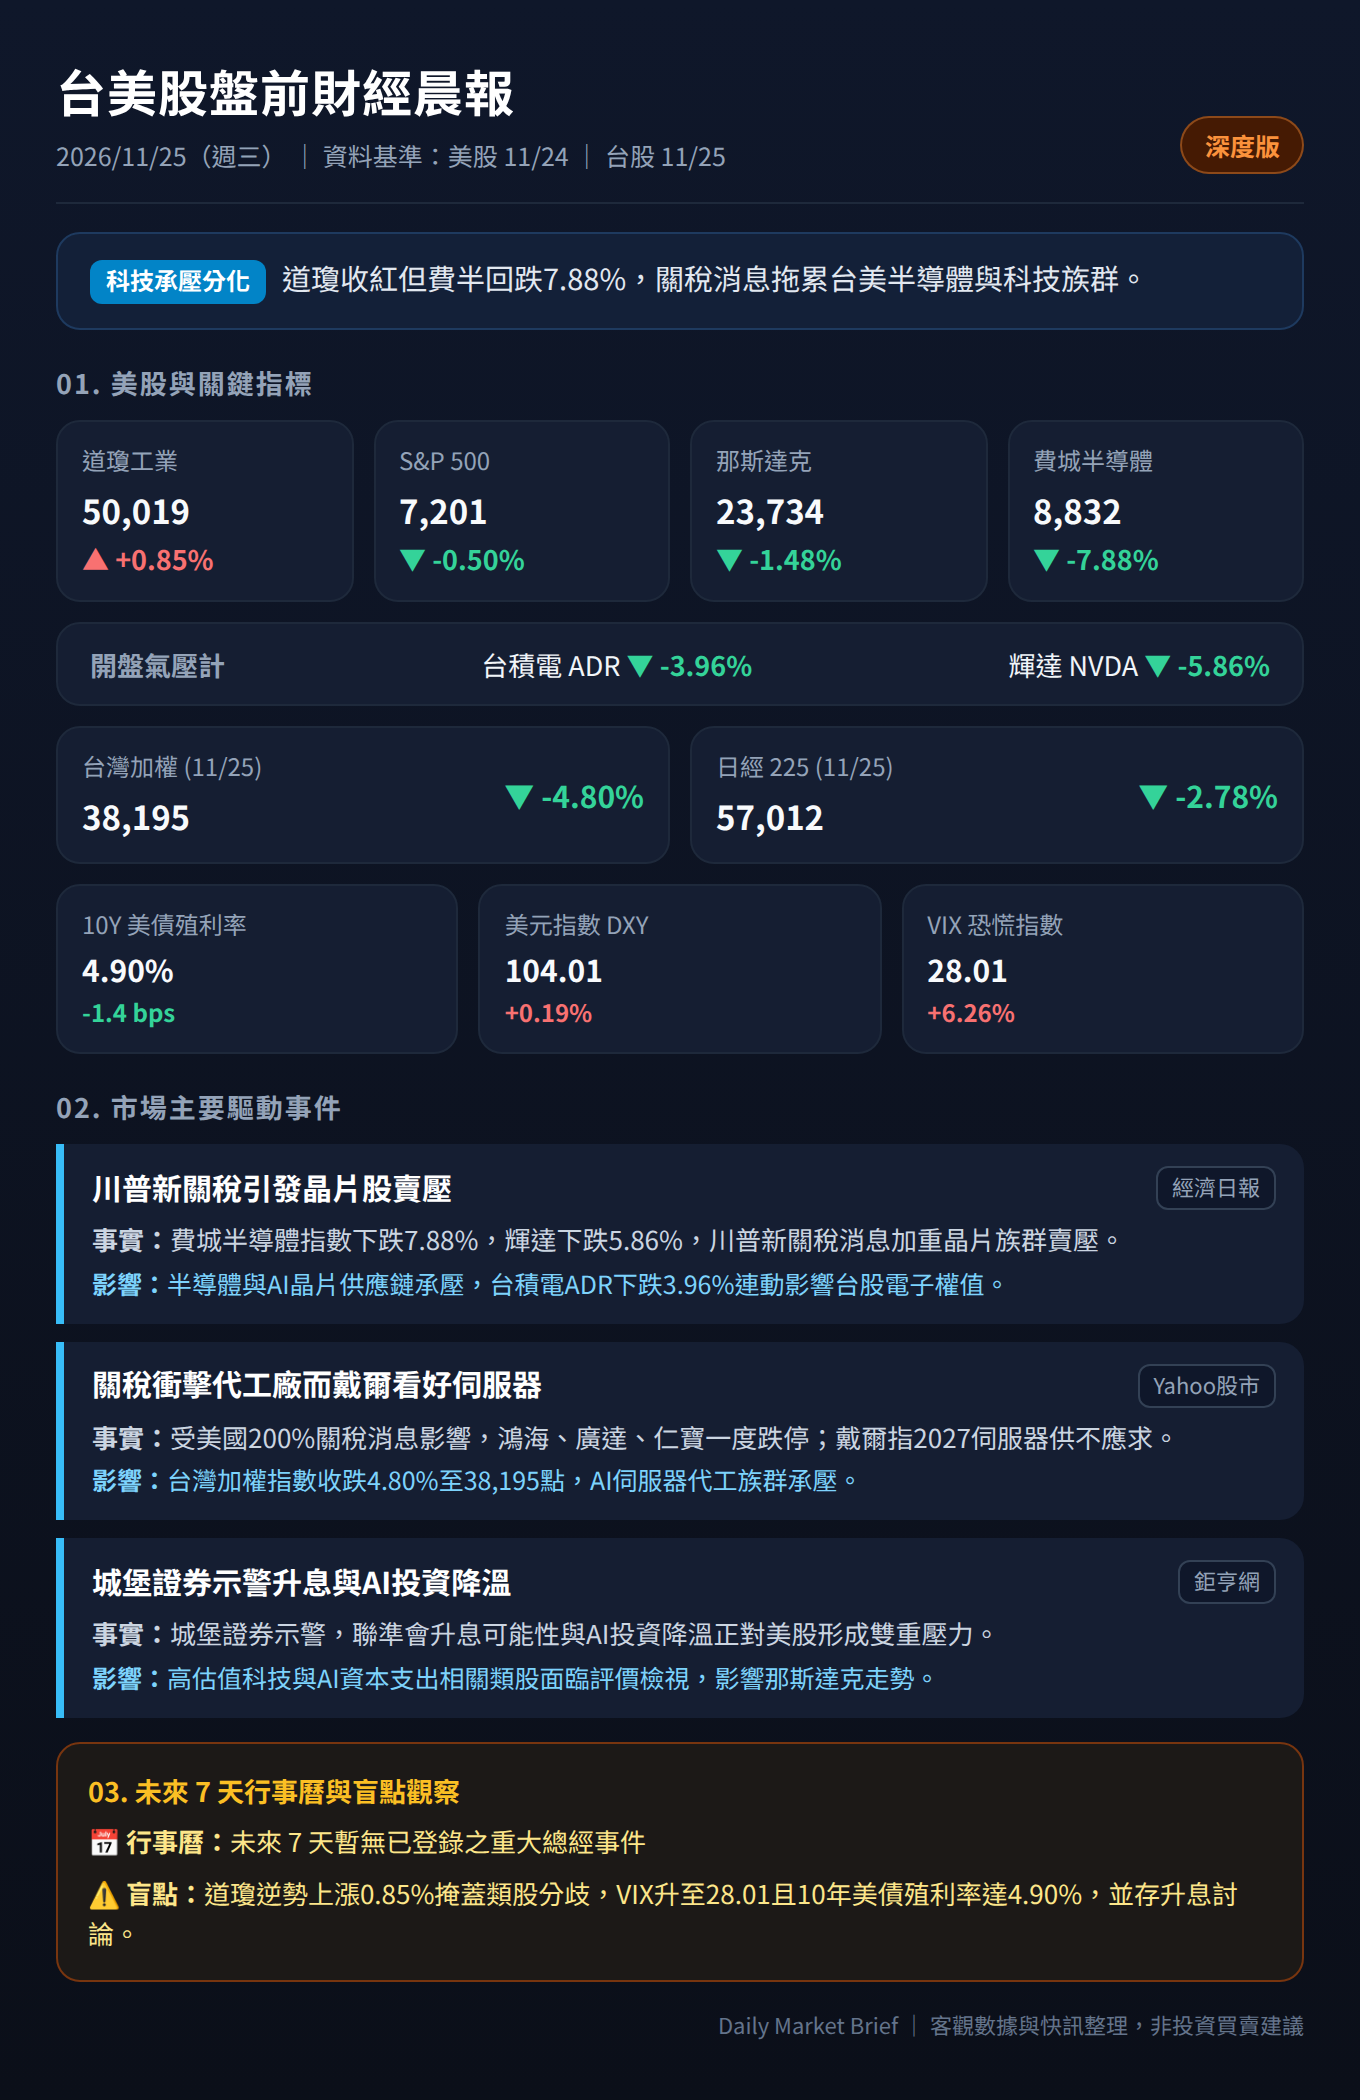
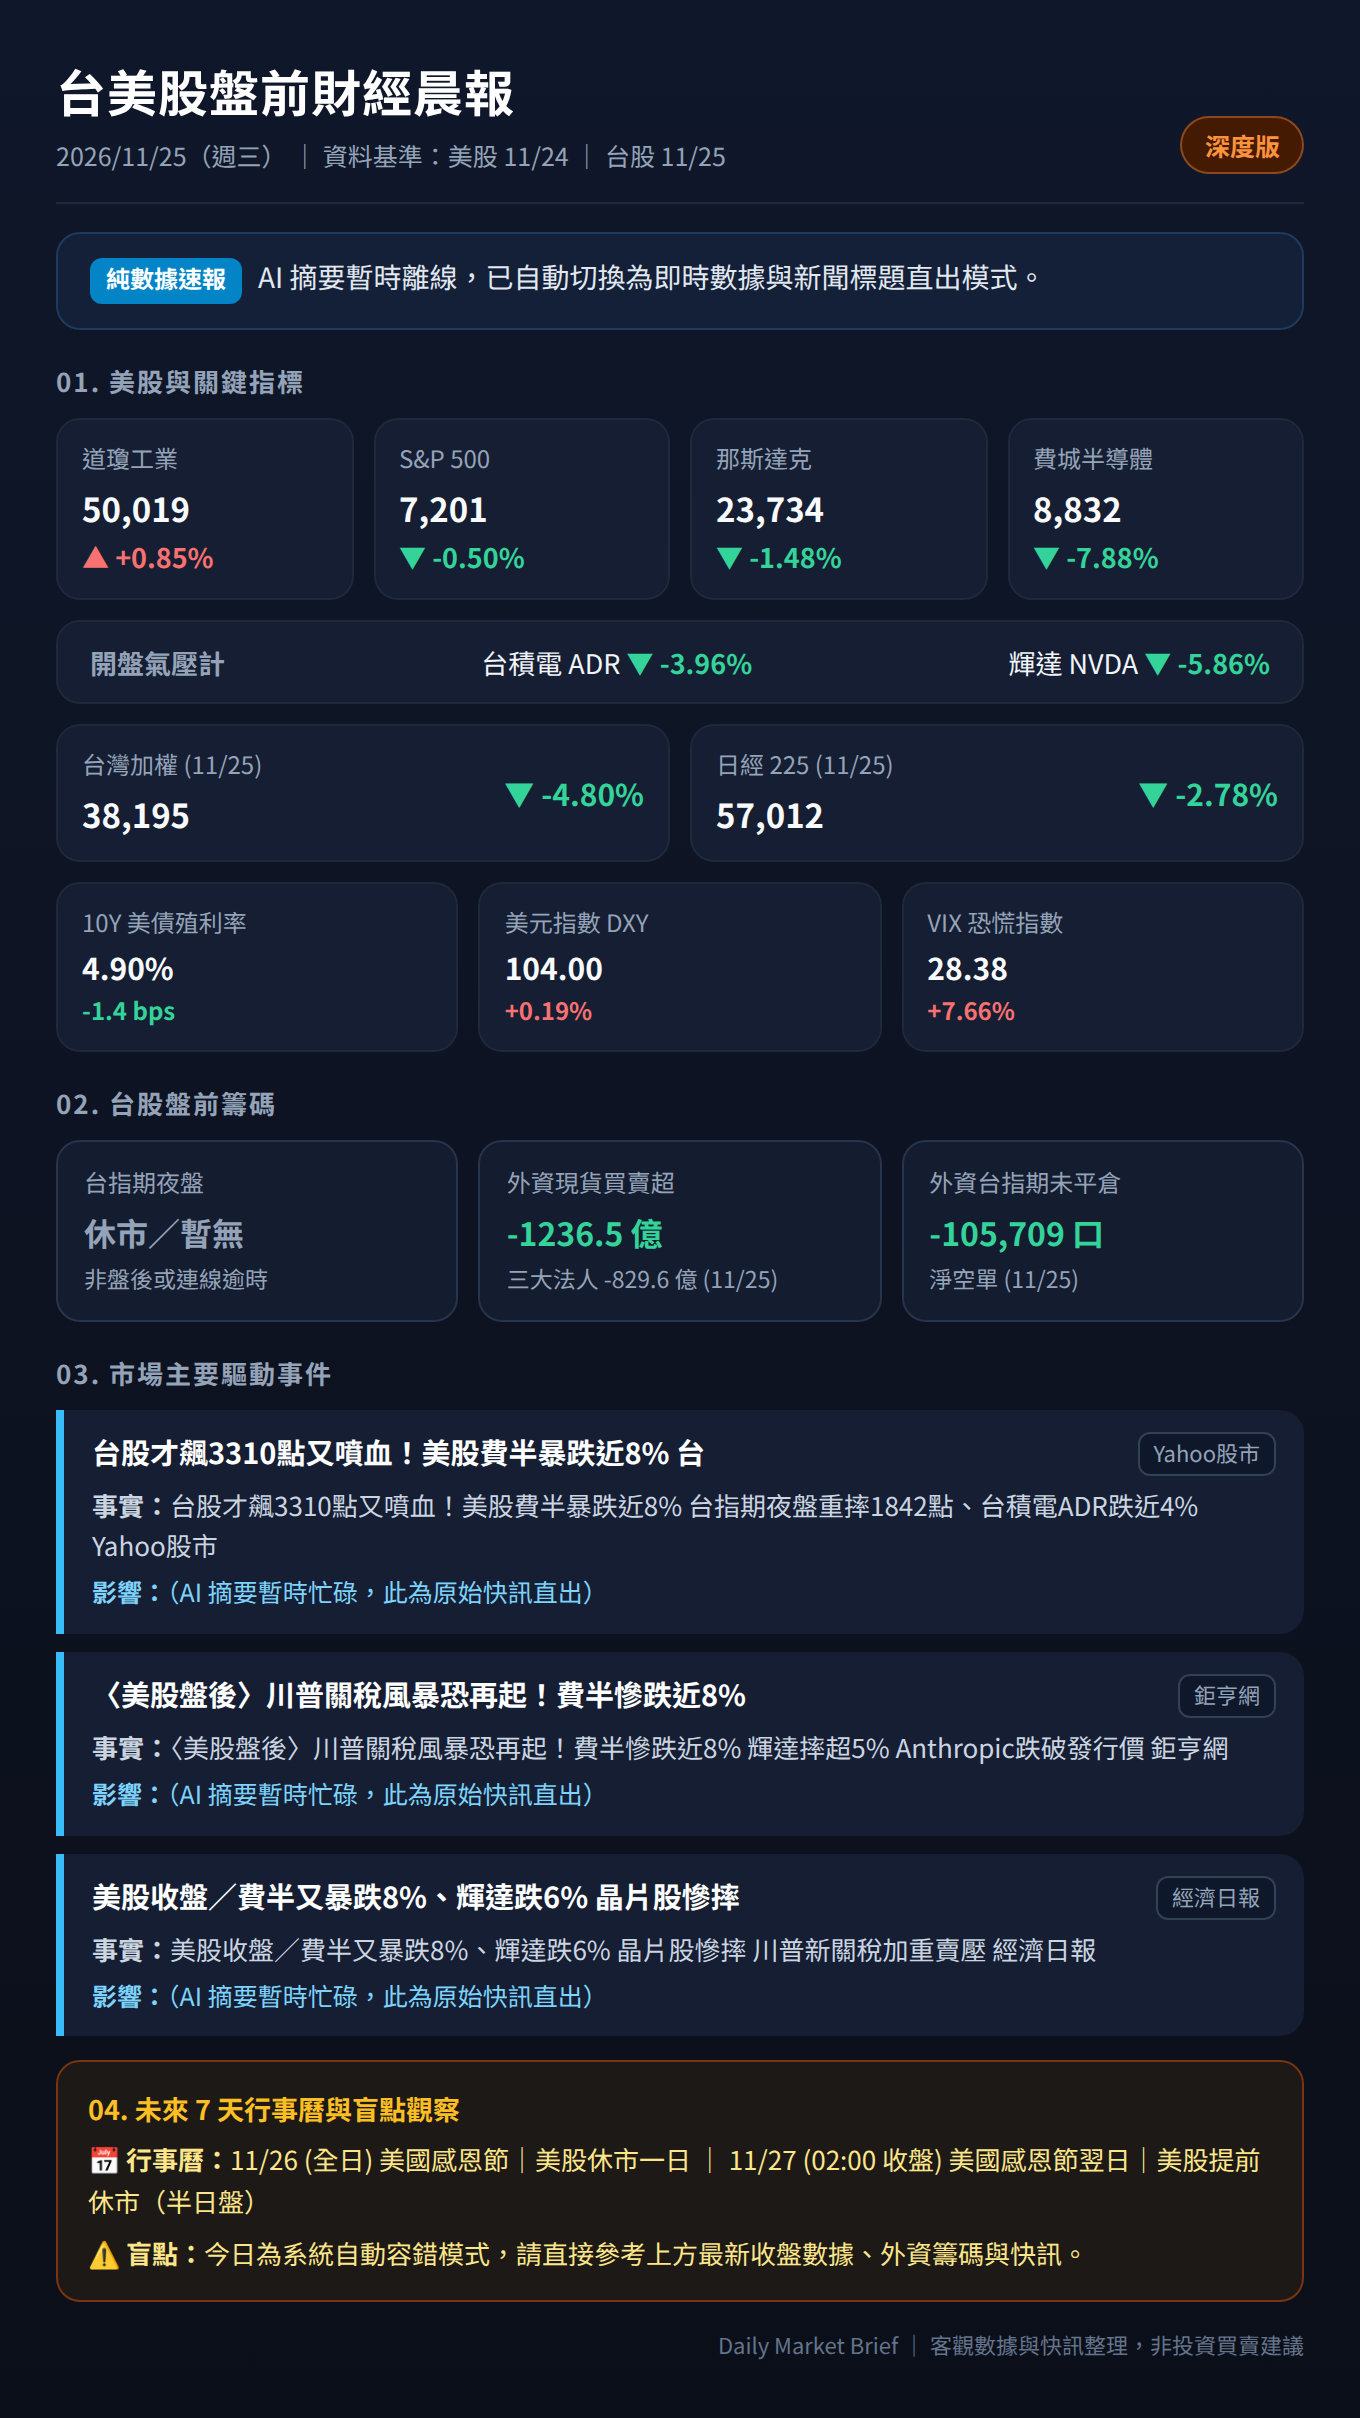
Update daily brief 2026-11-25

diff --git a/docs/index.html b/docs/index.html
@@ -30,7 +30,7 @@
 
   .summary-bar {
     background: #132038; border: 1px solid #1e3a5f; border-radius: 12px;
-    padding: 12px 16px; margin-bottom: 16px; font-size: 14.5px; line-height: 1.5; color: #e2e8f0;
+    padding: 12px 16px; margin-bottom: 14px; font-size: 14px; line-height: 1.55; color: #e2e8f0;
   }
   .regime-pill {
     display: inline-block; background: #0284c7; color: #ffffff;
@@ -38,7 +38,7 @@
   }
 
   .section-title {
-    font-size: 13.5px; font-weight: 700; color: #94a3b8;
+    font-size: 13px; font-weight: 700; color: #94a3b8;
     letter-spacing: 1px; margin: 16px 0 9px;
   }
   .grid-4 { display: grid; grid-template-columns: repeat(4, 1fr); gap: 10px; }
@@ -48,9 +48,14 @@
     background: #151e32; border: 1px solid #1e293b;
     border-radius: 12px; padding: 11px 12px;
   }
+  .chip-box {
+    background: #141c2f; border: 1px solid #26344d;
+    border-radius: 12px; padding: 12px 13px;
+  }
   .box-label { font-size: 12px; color: #94a3b8; margin-bottom: 4px; }
   .box-val { font-size: 16.5px; font-weight: 700; color: #f8fafc; }
   .box-chg { font-size: 13.5px; font-weight: 700; margin-top: 2px; }
+  .box-sub { font-size: 11.5px; color: #94a3b8; margin-top: 4px; }
 
   /* 台股習慣：紅漲綠跌 */
   .up { color: #f87171; }
@@ -67,13 +72,13 @@
     border-radius: 0 12px 12px 0; padding: 11px 14px; margin-bottom: 9px;
   }
   .news-head { display: flex; justify-content: space-between; align-items: center; gap: 8px; margin-bottom: 5px; }
-  .news-title { font-size: 15px; font-weight: 700; color: #ffffff; }
+  .news-title { font-size: 14.5px; font-weight: 700; color: #ffffff; }
   .news-src {
     font-size: 11px; color: #94a3b8; background: #0f172a;
     border: 1px solid #334155; padding: 2px 7px; border-radius: 6px; white-space: nowrap;
   }
-  .news-text { font-size: 13px; color: #cbd5e1; line-height: 1.5; margin-bottom: 3px; }
-  .news-impact { font-size: 12.5px; color: #7dd3fc; line-height: 1.45; }
+  .news-text { font-size: 13px; color: #cbd5e1; line-height: 1.55; margin-bottom: 4px; }
+  .news-impact { font-size: 12.5px; color: #7dd3fc; line-height: 1.5; }
 
   .radar-box {
     background: #1c1917; border: 1px solid #78350f; border-radius: 12px;
@@ -90,7 +95,7 @@
 <div id="brief-card"></div>
 
 <script>
-  const d = {"date_label": "2026/11/25（週三）", "mode": "深度版", "data_basis": "美股 11/24 ｜ 台股 11/25", "regime_tag": "科技承壓分化", "one_line_summary": "道瓊收紅但費半回跌7.88%，關稅消息拖累台美半導體與科技族群。", "us_indices": [{"name": "道瓊工業", "value": "50,019", "change": "+0.85%", "trend": "up", "pct_num": 0.8536908772321978, "date": "11/24"}, {"name": "S&P 500", "value": "7,201", "change": "-0.50%", "trend": "down", "pct_num": 0.49853849660134003, "date": "11/24"}, {"name": "那斯達克", "value": "23,734", "change": "-1.48%", "trend": "down", "pct_num": 1.4779077587664196, "date": "11/24"}, {"name": "費城半導體", "value": "8,832", "change": "-7.88%", "trend": "down", "pct_num": 7.880119733192452, "date": "11/24"}], "barometer": {"tsm": {"name": "台積電 ADR", "value": "349.20", "change": "-3.96%", "trend": "down", "pct_num": 3.960394294488749, "date": "11/24"}, "nvda": {"name": "輝達 NVDA", "value": "155.38", "change": "-5.86%", "trend": "down", "pct_num": 5.858829439653455, "date": "11/24"}}, "asia": [{"name": "台灣加權", "value": "38,195", "change": "-4.80%", "trend": "down", "pct_num": 4.80261450278747, "date": "11/25"}, {"name": "日經 225", "value": "57,012", "change": "-2.78%", "trend": "down", "pct_num": 2.784582054582604, "date": "11/25"}], "macro": [{"name": "10Y 美債殖利率", "value": "4.90%", "change": "-1.4 bps", "trend": "down", "pct_num": 0.2846770063470339, "date": "11/24"}, {"name": "美元指數 DXY", "value": "104.01", "change": "+0.19%", "trend": "up", "pct_num": 0.1907385424585627, "date": "11/25"}, {"name": "VIX 恐慌指數", "value": "28.01", "change": "+6.26%", "trend": "up", "pct_num": 6.259482474679151, "date": "11/25"}], "top_news": [{"source": "經濟日報", "title": "川普新關稅引發晶片股賣壓", "fact": "費城半導體指數下跌7.88%，輝達下跌5.86%，川普新關稅消息加重晶片族群賣壓。", "impact": "半導體與AI晶片供應鏈承壓，台積電ADR下跌3.96%連動影響台股電子權值。"}, {"source": "Yahoo股市", "title": "關稅衝擊代工廠而戴爾看好伺服器", "fact": "受美國200%關稅消息影響，鴻海、廣達、仁寶一度跌停；戴爾指2027伺服器供不應求。", "impact": "台灣加權指數收跌4.80%至38,195點，AI伺服器代工族群承壓。"}, {"source": "鉅亨網", "title": "城堡證券示警升息與AI投資降溫", "fact": "城堡證券示警，聯準會升息可能性與AI投資降溫正對美股形成雙重壓力。", "impact": "高估值科技與AI資本支出相關類股面臨評價檢視，影響那斯達克走勢。"}], "calendar_list": [], "blindspot": "道瓊逆勢上漲0.85%掩蓋類股分歧，VIX升至28.01且10年美債殖利率達4.90%，並存升息討論。", "ai_fallback": false};
+  const d = {"date_label": "2026/11/25（週三）", "mode": "深度版", "data_basis": "美股 11/24 ｜ 台股 11/25", "regime_tag": "純數據速報", "one_line_summary": "AI 摘要暫時離線，已自動切換為即時數據與新聞標題直出模式。", "us_indices": [{"name": "道瓊工業", "value": "50,019", "change": "+0.85%", "trend": "up", "pct_num": 0.8536908772321978, "date": "11/24"}, {"name": "S&P 500", "value": "7,201", "change": "-0.50%", "trend": "down", "pct_num": 0.49853849660134003, "date": "11/24"}, {"name": "那斯達克", "value": "23,734", "change": "-1.48%", "trend": "down", "pct_num": 1.4779077587664196, "date": "11/24"}, {"name": "費城半導體", "value": "8,832", "change": "-7.88%", "trend": "down", "pct_num": 7.880119733192452, "date": "11/24"}], "barometer": {"tsm": {"name": "台積電 ADR", "value": "349.20", "change": "-3.96%", "trend": "down", "pct_num": 3.960394294488749, "date": "11/24"}, "nvda": {"name": "輝達 NVDA", "value": "155.38", "change": "-5.86%", "trend": "down", "pct_num": 5.858829439653455, "date": "11/24"}}, "asia": [{"name": "台灣加權", "value": "38,195", "change": "-4.80%", "trend": "down", "pct_num": 4.80261450278747, "date": "11/25"}, {"name": "日經 225", "value": "57,012", "change": "-2.78%", "trend": "down", "pct_num": 2.784582054582604, "date": "11/25"}], "macro": [{"name": "10Y 美債殖利率", "value": "4.90%", "change": "-1.4 bps", "trend": "down", "pct_num": 0.2846770063470339, "date": "11/24"}, {"name": "美元指數 DXY", "value": "104.00", "change": "+0.19%", "trend": "up", "pct_num": 0.18784288547367953, "date": "11/25"}, {"name": "VIX 恐慌指數", "value": "28.38", "change": "+7.66%", "trend": "up", "pct_num": 7.663120271787044, "date": "11/25"}], "tw_chips": [{"label": "台指期夜盤", "value": "休市／暫無", "sub": "非盤後或連線逾時", "trend": "flat"}, {"label": "外資現貨買賣超", "value": "-1236.5 億", "sub": "三大法人 -829.6 億 (11/25)", "trend": "down"}, {"label": "外資台指期未平倉", "value": "-105,709 口", "sub": "淨空單 (11/25)", "trend": "down"}], "top_news": [{"source": "Yahoo股市", "title": "台股才飆3310點又噴血！美股費半暴跌近8% 台", "fact": "台股才飆3310點又噴血！美股費半暴跌近8% 台指期夜盤重摔1842點、台積電ADR跌近4% Yahoo股市", "impact": "（AI 摘要暫時忙碌，此為原始快訊直出）"}, {"source": "鉅亨網", "title": "〈美股盤後〉川普關稅風暴恐再起！費半慘跌近8% ", "fact": "〈美股盤後〉川普關稅風暴恐再起！費半慘跌近8% 輝達摔超5% Anthropic跌破發行價 鉅亨網", "impact": "（AI 摘要暫時忙碌，此為原始快訊直出）"}, {"source": "經濟日報", "title": "美股收盤／費半又暴跌8%、輝達跌6% 晶片股慘摔", "fact": "美股收盤／費半又暴跌8%、輝達跌6% 晶片股慘摔 川普新關稅加重賣壓 經濟日報", "impact": "（AI 摘要暫時忙碌，此為原始快訊直出）"}], "calendar_list": ["11/26 (全日) 美國感恩節｜美股休市一日", "11/27 (02:00 收盤) 美國感恩節翌日｜美股提前休市（半日盤）"], "blindspot": "今日為系統自動容錯模式，請直接參考上方最新收盤數據、外資籌碼與快訊。", "ai_fallback": true};
   const trendIcon = t => t === 'up' ? '▲ ' : (t === 'down' ? '▼ ' : '');
   const isDeep = d.mode && d.mode.includes('深度');
   const calText = (d.calendar_list && d.calendar_list.length > 0)
@@ -151,7 +156,18 @@
       `).join('')}
     </div>
 
-    <div class="section-title">02. 市場主要驅動事件</div>
+    <div class="section-title">02. 台股盤前籌碼</div>
+    <div class="grid-3" style="margin-top:0;">
+      ${(d.tw_chips || []).map(c => `
+        <div class="chip-box">
+          <div class="box-label">${c.label}</div>
+          <div class="box-val ${c.trend}" style="font-size:16px;">${c.value}</div>
+          <div class="box-sub">${c.sub}</div>
+        </div>
+      `).join('')}
+    </div>
+
+    <div class="section-title">03. 市場主要驅動事件</div>
     ${d.top_news.map(n => `
       <div class="news-item">
         <div class="news-head">
@@ -164,7 +180,7 @@
     `).join('')}
 
     <div class="radar-box">
-      <div class="radar-title">03. 未來 7 天行事曆與盲點觀察</div>
+      <div class="radar-title">04. 未來 7 天行事曆與盲點觀察</div>
       <div class="radar-text" style="margin-bottom:6px;"><strong>📅 行事曆：</strong>${calText}</div>
       <div class="radar-text"><strong>⚠ 盲點：</strong>${d.blindspot}</div>
     </div>
